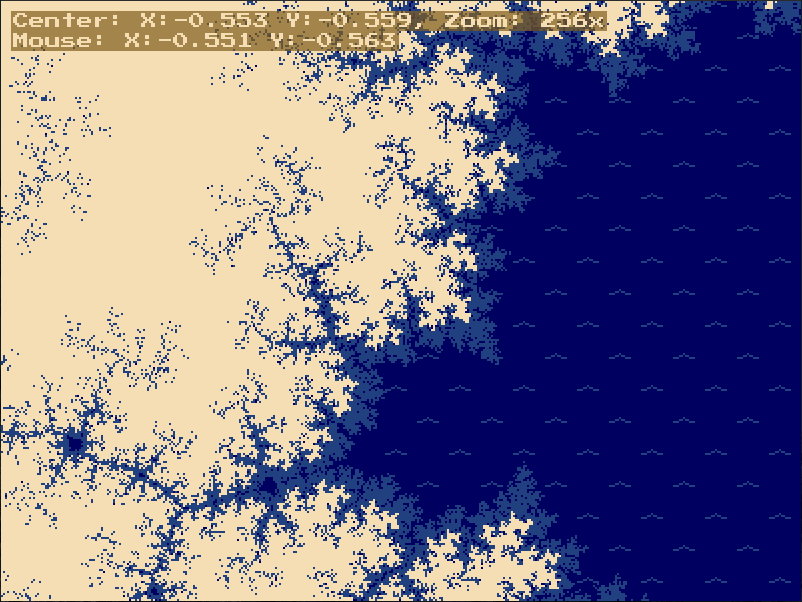
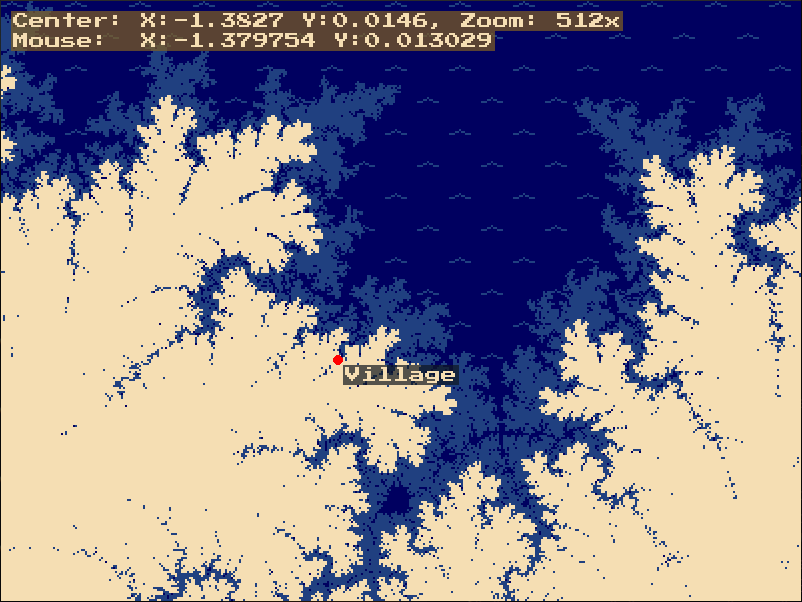
Map markers

diff --git a/mandelbrot.py b/mandelbrot.py
@@ -111,6 +111,10 @@ def calculate_mandelbrot_async(height, width, x_min, x_max, y_min, y_max):
     global mandelbrot_set, mandelbrot_surface, is_calc, drag_offset
     mandelbrot_set = mandelbrot(height, width, x_min, x_max, y_min, y_max)
     mandelbrot_surface = create_mandelbrot_surface(mandelbrot_set)
+
+    # Draw markers directly on the mandelbrot surface
+    draw_markers(mandelbrot_surface, x_min, x_max, y_min, y_max)
+
     is_calc = False
     drag_offset = (0, 0)  # Reset drag_offset after calculation
 
@@ -146,6 +150,29 @@ def draw_calc_msg(screen):
     screen.blit(text_surface, text_rect)
 
 
+def complex_to_screen(x, y, x_min, x_max, y_min, y_max):
+    screen_x = (x - x_min) / (x_max - x_min) * WIDTH
+    screen_y = (y - y_min) / (y_max - y_min) * HEIGHT
+    return int(screen_x), int(screen_y)
+
+
+def draw_markers(screen, x_min, x_max, y_min, y_max):
+    for marker in MARKERS:
+        screen_x, screen_y = complex_to_screen(
+            marker['x'], marker['y'], x_min, x_max, y_min, y_max)
+
+        # Draw the marker
+        pygame.draw.circle(screen, MARKER_COLOR,
+                           (screen_x, screen_y), MARKER_SIZE)
+
+        # Render the label
+        label_surface = render_text_with_background(
+            marker['label'], pixel_font, MARKER_TEXT_COLOUR, (*MARKER_TEXT_BG_COLOUR, 180))
+        label_pos = (
+            screen_x + MARKER_LABEL_OFFSET[0], screen_y + MARKER_LABEL_OFFSET[1])
+        screen.blit(label_surface, label_pos)
+
+
 def main():
     global x_min, x_max, y_min, y_max, mandelbrot_set, mandelbrot_surface, is_calc, drag_offset
 
@@ -159,6 +186,7 @@ def main():
     mandelbrot_set = mandelbrot(
         RENDER_HEIGHT, RENDER_WIDTH, x_min, x_max, y_min, y_max)
     mandelbrot_surface = create_mandelbrot_surface(mandelbrot_set)
+    draw_markers(mandelbrot_surface, x_min, x_max, y_min, y_max)
     is_calc = False
 
     # Keep track of the previous view state
@@ -226,7 +254,7 @@ def main():
 
         # Calculate and display coordinates and zoom
         zoom = calculate_zoom(x_min, x_max, y_min, y_max)
-        coord_text = f"Center: X:{(x_min + x_max) / 2:.3f} Y:{(y_min + y_max) / 2:.3f}, Zoom: {zoom:.0f}x"
+        coord_text = f"Center: X:{(x_min + x_max) / 2:.4f} Y:{(y_min + y_max) / 2:.4f}, Zoom: {zoom:.0f}x"
         coord_surface = render_text_with_background(
             coord_text, pixel_font, TEXT_COLOUR, (*TEXT_BG_COLOUR, 180))
         screen.blit(coord_surface, (10, 10))
@@ -235,7 +263,7 @@ def main():
         mouse_x, mouse_y = pygame.mouse.get_pos()
         mouse_complex_x, mouse_complex_y = screen_to_complex(
             mouse_x - drag_offset[0], mouse_y - drag_offset[1], x_min, x_max, y_min, y_max)
-        mouse_text = f"Mouse: X:{mouse_complex_x:.3f} Y:{mouse_complex_y:.3f}"
+        mouse_text = f"Mouse:  X:{mouse_complex_x:.6f} Y:{mouse_complex_y:.6f}"
         mouse_surface = render_text_with_background(
             mouse_text, pixel_font, TEXT_COLOUR, (*TEXT_BG_COLOUR, 180))
         screen.blit(mouse_surface, (10, 30))

diff --git a/settings.py b/settings.py
@@ -22,3 +22,16 @@ NORMAL_FONT_SIZE = 24
 # Wave texture settings
 WAVE_SIZE = 32
 WAVE_COLOUR = OCEAN_SHALLOW_COLOUR  # Wave crests
+
+# Markers
+MARKERS = [
+    {"x": -0.75, "y": 0, "label": "Cardioid Center"},
+    {"x": -1, "y": 0.25, "label": "Period-2 Bulb"},
+    {"x": -0.125, "y": 0.744, "label": "Mini Mandelbrot"},
+]
+
+MARKER_COLOR = (255, 0, 0)  # Red
+MARKER_SIZE = 5  # Pixels
+MARKER_LABEL_OFFSET = (5, 5)  # Offset for label from marker
+MARKER_TEXT_COLOUR = TEXT_COLOUR
+MARKER_TEXT_BG_COLOUR = (16, 24, 32)
